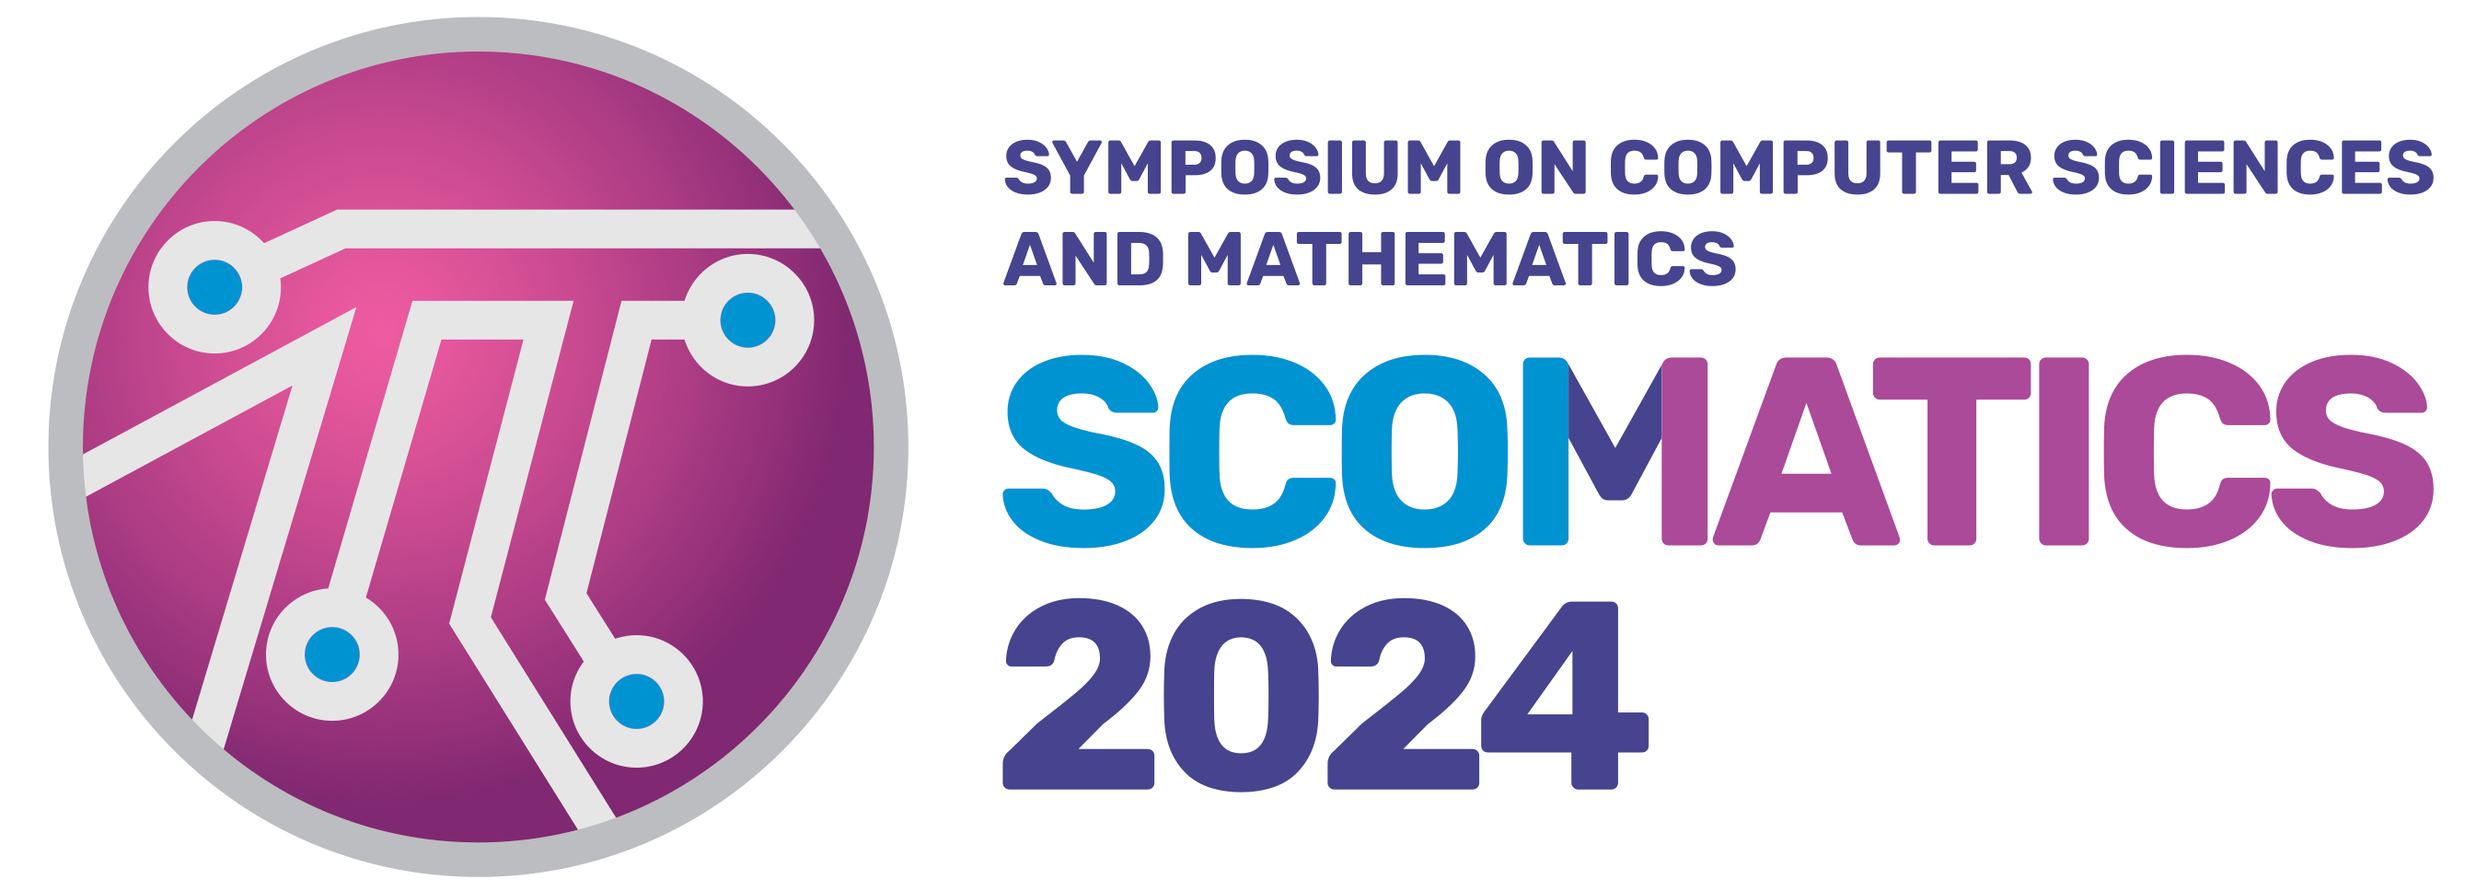
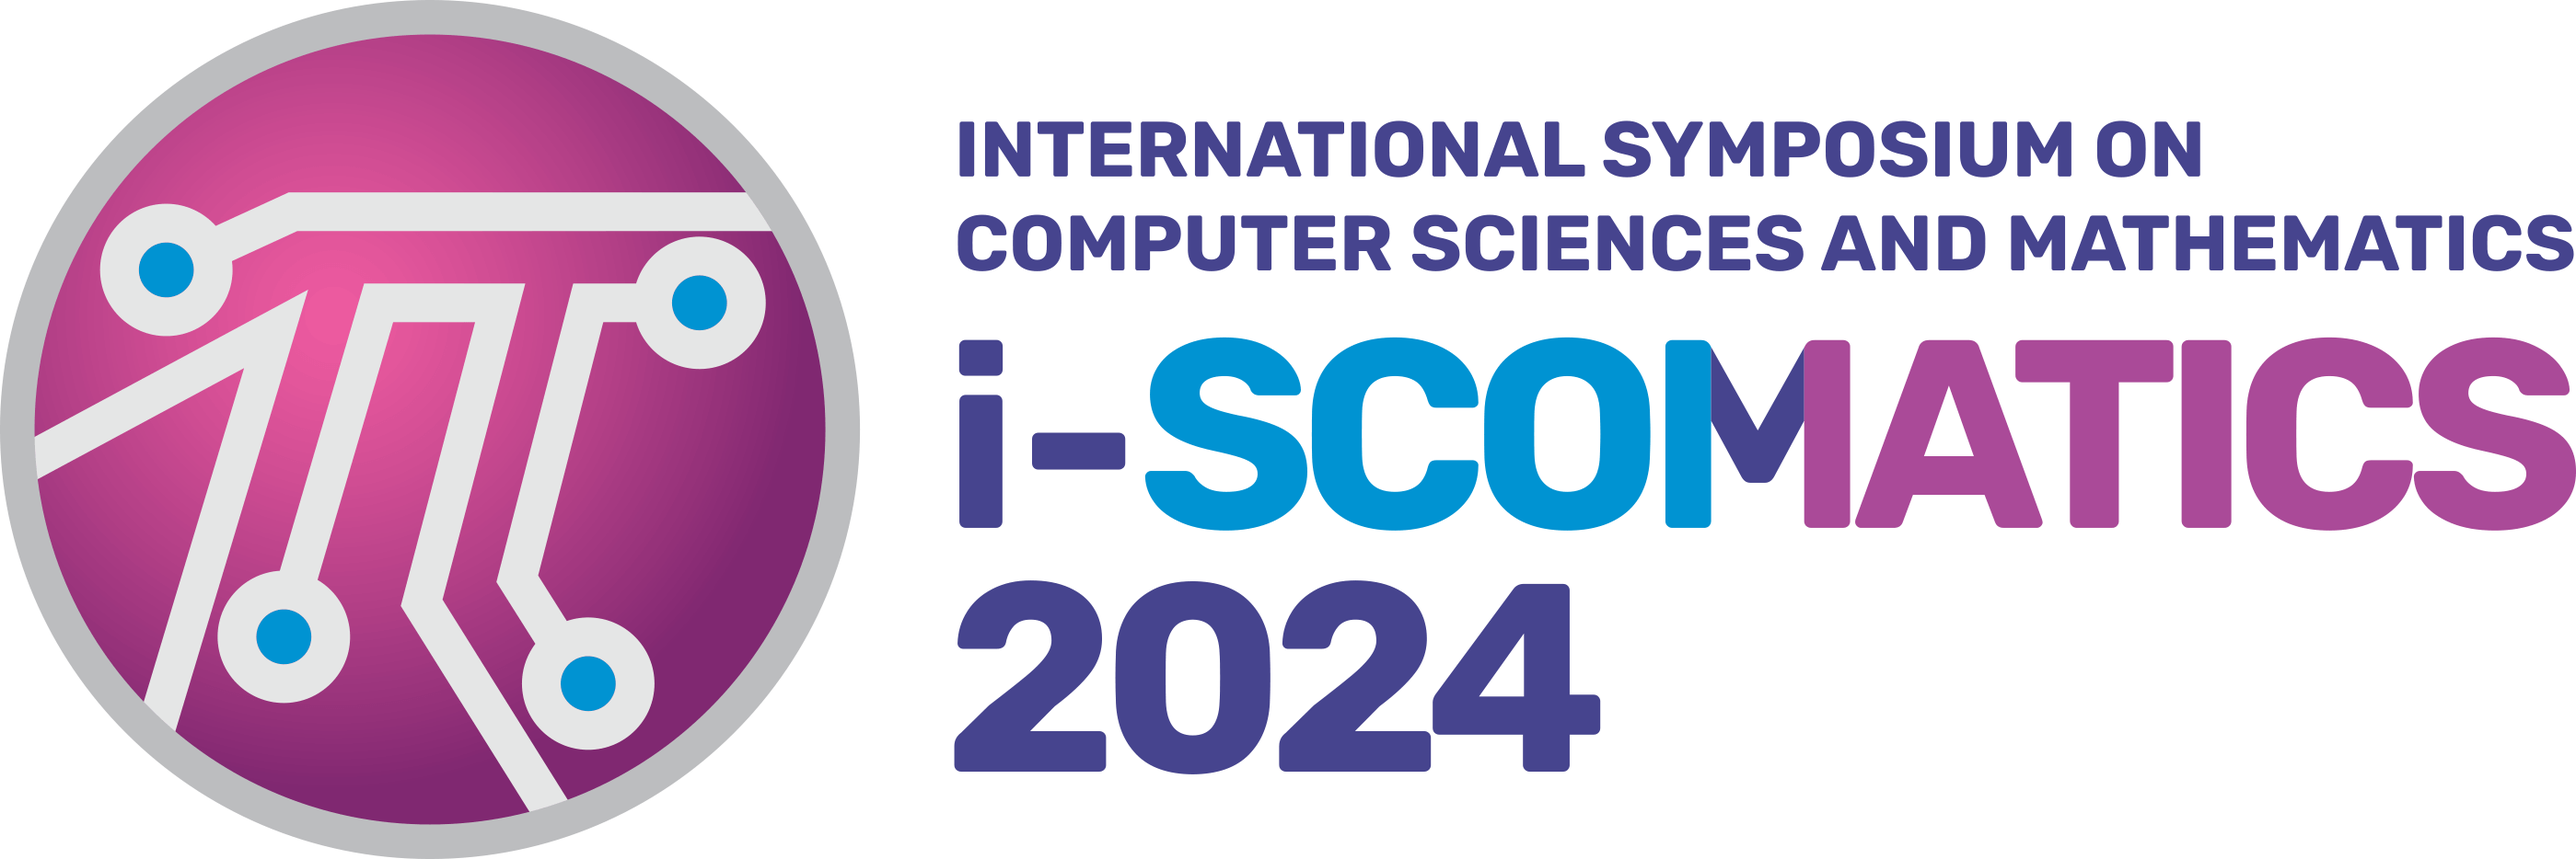
Change to i-SCOMATICS2024

diff --git a/index.html b/index.html
@@ -20,14 +20,14 @@
     <meta name="author" content="Rizauddin Saian" />
     <meta
       name="description"
-      content="SCOMATICS2024 serves as a platform for sharing and collecting high-quality and high-impact project developments by academic staff and students, highlighting their scholarly research in the fields of computer science and mathematics. The symposium provides an opportunity for participants to commercialize, promote, and showcase their research ideas and products to academics and researchers from within and outside UiTM. It also intensifies research and idea-sharing activities in addressing current issues in the higher education sector, industry, community, and alumni. Furthermore, SCOMATICS2024 encourages participants to elevate their research outcomes through high-impact publications, thereby broadening and enriching the world of publishing and knowledge sharing at a higher level. SCOMATICS2024 is open to academics and students (Final Year Students and Postgraduate Students) in the fields of Computer Science and Mathematics. Participation is open to all UiTM branches and local universities in Peninsular Malaysia, Sabah, and Sarawak. The symposium will be held online on 24 October 2024. See you there!"
+      content="i-SCOMATICS2024 serves as a platform for sharing and collecting high-quality and high-impact project developments by academic staff and students, highlighting their scholarly research in the fields of computer sciences and mathematics. The symposium provides an opportunity for participants to commercialize, promote, and showcase their research ideas and products to academics and researchers from within and outside UiTM. It also intensifies research and idea-sharing activities in addressing current issues in the higher education sector, industry, community, and alumni. Furthermore, i-SCOMATICS2024 encourages participants to elevate their research outcomes through high-impact publications, thereby broadening and enriching the world of publishing and knowledge sharing at a higher level. i-SCOMATICS2024 is open to academics and students (Final Year Students and Postgraduate Students) in the fields of Computer Sciences and Mathematics. Participation is open to all UiTM branches and local universities in Peninsular Malaysia, Sabah, and Sarawak. The symposium will be held online on 24 October 2024. See you there!"
     />
     <meta name="msvalidate.01" content="6B226E3622F8D9D87EF3502ABD5B028B" />
     <meta
       name="keywords"
-      content="symposium, Kolej Pengajian Pengkomputeran, Informatik & Matematik, kppim, Universiti Teknologi MARA, uitm, mathematics, maths, computer, computer science, programming, perlis"
+      content="symposium, Kolej Pengajian Pengkomputeran, Informatik & Matematik, kppim, Universiti Teknologi MARA, uitm, mathematics, maths, computer, computer sciences, programming, perlis"
     />
-    <title>SCOMATICS2024-Symposium on Computer Science and Mathematics</title>
+    <title>i-SCOMATICS2024-Symposium on Computer Sciences and Mathematics</title>
     <link
       href="https://maxcdn.bootstrapcdn.com/bootstrap/4.5.2/css/bootstrap.min.css"
       rel="stylesheet"
@@ -42,7 +42,7 @@
   <body>
     <!------Navbar ------>
     <nav class="navbar navbar-expand-lg navbar-dark bg-darkblue fixed-top">
-      <a class="navbar-brand" href="#home">SCOMATICS2024</a>
+      <a class="navbar-brand" href="#home">i-SCOMATICS2024</a>
       <button
         class="navbar-toggler"
         type="button"
@@ -121,27 +121,27 @@
       <div class="container">
         <h2>Call for Papers</h2>
         <p class="text-justify">
-          SCOMATICS2024 serves as a platform for sharing and collecting
+          i-SCOMATICS2024 serves as a platform for sharing and collecting
           high-quality and high-impact project developments by academic staff
           and students, highlighting their scholarly research in the fields of
-          computer science and mathematics. The symposium provides an
+          computer sciences and mathematics. The symposium provides an
           opportunity for participants to commercialize, promote, and showcase
           their research ideas and products to academics and researchers from
           within and outside UiTM. It also intensifies research and idea-sharing
           activities in addressing current issues in the higher education
-          sector, industry, community, and alumni. Furthermore, SCOMATICS2024
+          sector, industry, community, and alumni. Furthermore, i-SCOMATICS2024
           encourages participants to elevate their research outcomes through
           high-impact publications, thereby broadening and enriching the world
           of publishing and knowledge sharing at a higher level.
         </p>
 
         <!------Objectives ------>
-        The objectives of SCOMATICS2024 are as follows:
+        The objectives of i-SCOMATICS2024 are as follows:
         <ul>
           <li>
             To provide a platform for academics and students to showcase their
             scholarly research, innovations, and technological advancements in
-            the fields of Computer Science and Mathematics.
+            the fields of Computer Sciences and Mathematics.
           </li>
           <li>
             To empower scholarly research projects through the sharing of
@@ -150,7 +150,7 @@
           </li>
           <li>
             To produce high-impact publications to further enrich the academic
-            landscape and foster the exchange of knowledge in Computer Science
+            landscape and foster the exchange of knowledge in Computer Sciences
             and Mathematics.
           </li>
           <li>
@@ -160,12 +160,12 @@
           </li>
         </ul>
         <p class="text-justify">
-          SCOMATICS2024 is open
+          i-SCOMATICS2024 is open
           <strong
             >to academics and students (Final Year Students and Postgraduate
             Students)</strong
           >
-          in the fields of Computer Science and Mathematics. Participation is
+          in the fields of Computer Sciences and Mathematics. Participation is
           open to all UiTM branches and local universities in Peninsular
           Malaysia, Sabah, and Sarawak. The symposium will be held online on 24
           October 2024. See you there!
@@ -300,7 +300,7 @@
         <div>
           <img
             src="img/scomatics2024-submission-flow.png"
-            alt="scomatics2024 submission flow"
+            alt="i-SCOMATICS2024 submission flow"
             class="img-fluid"
           />
         </div>
@@ -700,7 +700,7 @@
         <h2>Poster</h2>
         <img
           src="img/scomatics2024-poster.jpg"
-          alt="SCOMATICS2024 Poster"
+          alt="i-SCOMATICS2024 Poster"
           class="img-fluid"
         />
       </div>
@@ -719,14 +719,16 @@
                         > scomatics.kppim@gmail.com</a
                     >-->
         </p>
-        <p>&copy; 2024 Symposium on Computer and Mathematics</p>
+        <!-- <p>&copy; International Symposium on Computer Sciences and Mathematics 2024</p> -->
+
+        <p>&copy; i-SCOMATICS2024</p>
       </div>
 
       <p>
         <a href="http://whos.amung.us/stats/xemkpiujw0/">
           <img
             src="http://whos.amung.us/swidget/xemkpiujw0.png"
-            alt="scomatics2024 stats"
+            alt="i-SCOMATICS2024 stats"
             width="80"
             height="15"
             [border]="0"
